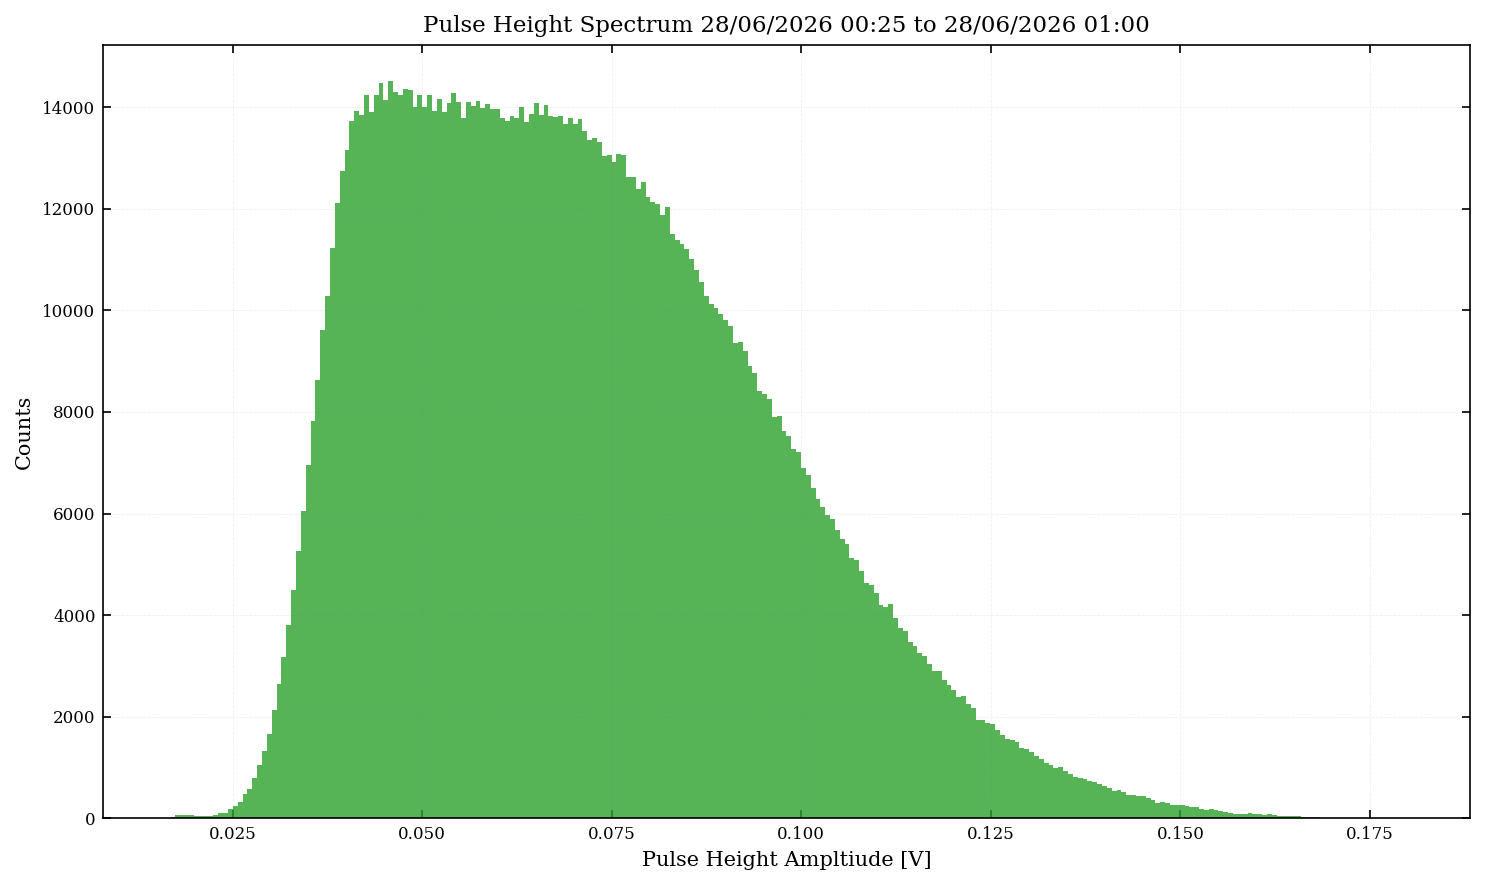
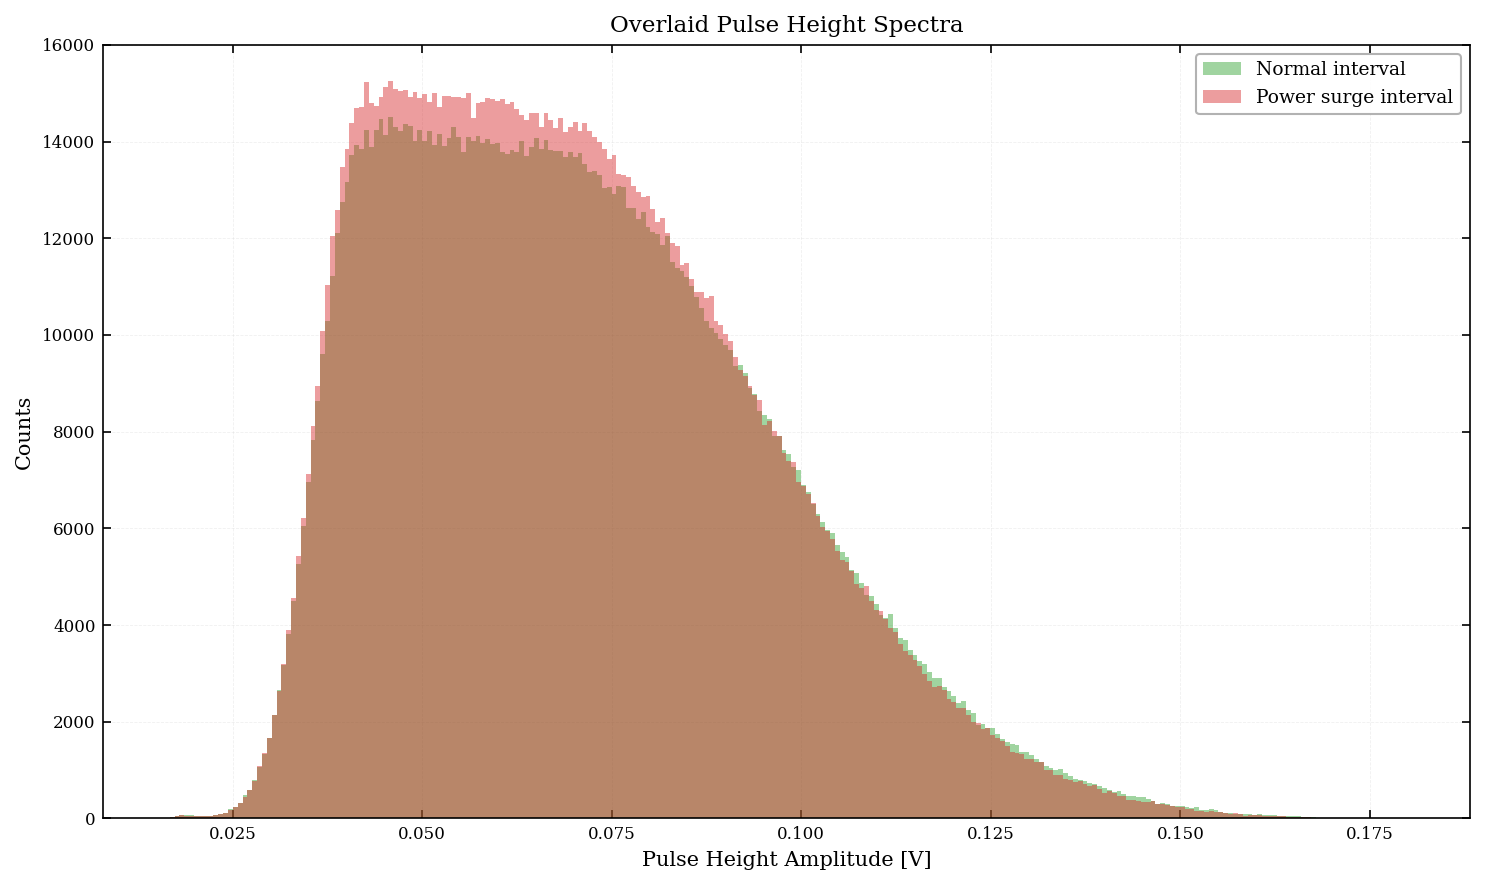
vault backup: 2026-06-29 13:44:24

diff --git a/year-3-STFC/Tile Testing/260629 - 210mm Tile stability Run 260624-26060.md b/year-3-STFC/Tile Testing/260629 - 210mm Tile stability Run 260624-26060.md
@@ -26,4 +26,4 @@
 
 ### Overlay of both PHS 
 ![[fig-260629-tile-testing-overlay-210mm.png]]
-
+- As we can see
